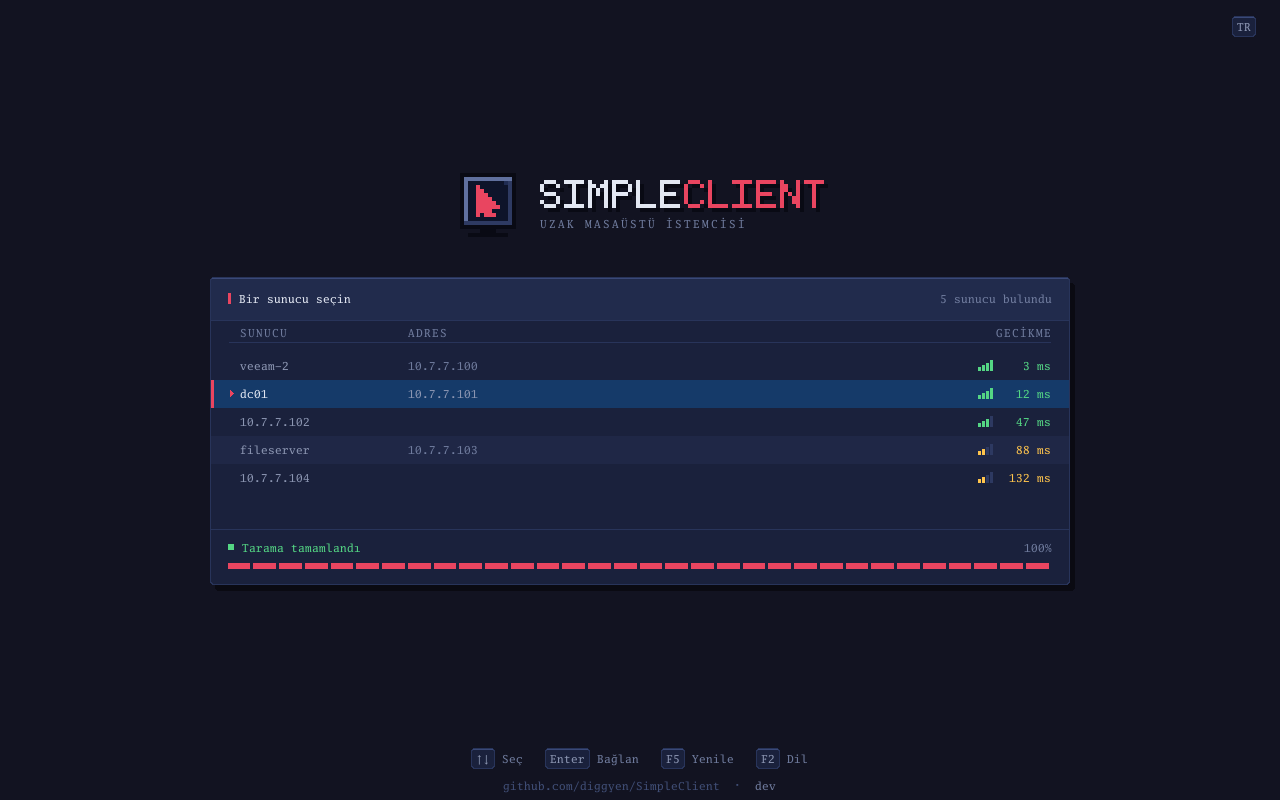
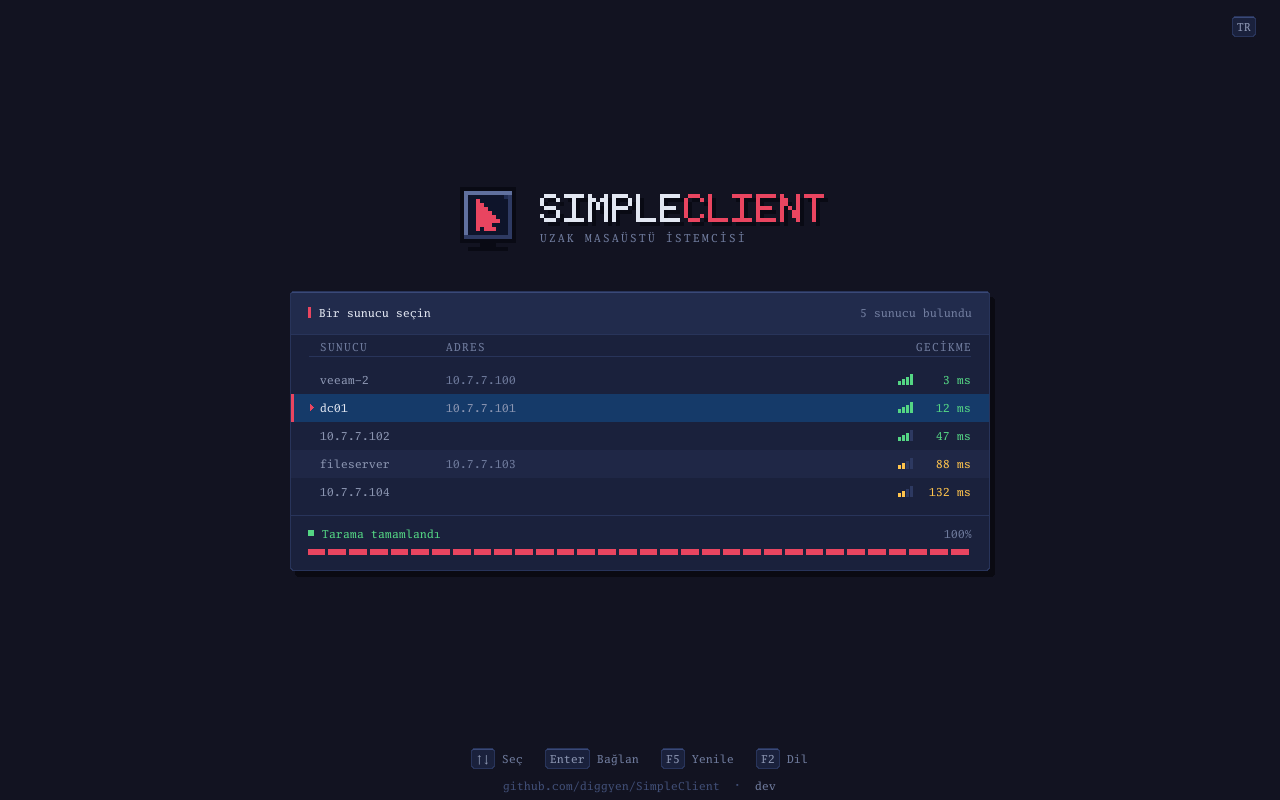
fix: size the host card to what it actually shows
The card was 860px wide with a SERVER and an ADDRESS column. On a network with
no reverse DNS — the ordinary case — nothing resolves to a name, so the name
column holds the IP and the address column is empty: a panel two thirds the
width of the screen wrapped around fifteen characters of text.

The list has two shapes and now gets two widths. With hostnames it keeps both
columns at 700px; without them the address column is dropped entirely and the
card narrows to 470px. The name column also shrank from 24 characters to 18,
which is an IPv4 address or a short hostname, and the minimum row count from six
to four, so a two-host list no longer sits in a mostly empty panel.

Layout now takes the hosts rather than a count, since whether the column is
there is a property of the hosts. Run still sizes its scrolling window from the
full-height layout and hit-tests against the one for the hosts on screen, so
TestLayoutDiscovery_RowCountIsIndependentOfWidth pins the invariant those two
rely on: width must not change how many rows fit, or a click selects a different
host from the one under the pointer.

Verified on a real boot under UEFI off a USB device, not only in the renderer.

Changed region(s): [[0.1562, 0.3438, 0.8438, 0.75], [0.3438, 0.2188, 0.6562, 0.3125], [0.3438, 0.5625, 0.375, 0.5938]]

diff --git a/internal/ui/render_discovery.go b/internal/ui/render_discovery.go
@@ -24,8 +24,14 @@ const (
 // edge: a full-width list on a 1280px screen puts the hostname and its latency
 // so far apart that they stop reading as one row.
 const (
-	cardMaxW    = 860
-	cardMinW    = 440
+	// Two widths, because the list has two shapes. With reverse DNS the rows
+	// carry a name and an address; without it — the common case on a flat
+	// office network — the name column holds the IP and the address column is
+	// empty, and a card sized for both columns is mostly whitespace around
+	// fifteen characters of text.
+	cardMaxW    = 700
+	cardNarrowW = 470
+	cardMinW    = 400
 	cardMaxH    = 620
 	cardMargin  = 48 // minimum gap between the card and the screen edge
 	cardHeader  = 44
@@ -33,7 +39,7 @@ const (
 	cardFooter  = 56
 	cardRowH    = 28
 	cardPad     = 18
-	cardMinRows = 6 // keeps the card from collapsing around one or two hosts
+	cardMinRows = 4 // keeps the card from collapsing around one or two hosts
 	scrollBarW  = 4
 	logoTop     = 44 // top of the header block
 	logoGap     = 40 // between the header block and the card
@@ -42,7 +48,7 @@ const (
 
 // Column geometry, in character cells from the left edge of the list.
 const (
-	colNameChars    = 24 // hostname column, wide enough for a FQDN-ish label
+	colNameChars    = 18 // name column: a short hostname, or an IPv4 address
 	latencyNumChars = 7  // "9999 ms" — a fixed column, so the bars stay aligned
 	meterGap        = 9  // between the signal bars and the number
 )
@@ -59,27 +65,43 @@ type discoveryLayout struct {
 	List    image.Rectangle
 	Footer  image.Rectangle
 	RowH    int
-	Rows    int // how many rows fit in List
+	Rows    int  // how many rows fit in List
+	Address bool // whether the address column is drawn, and paid for in width
 }
 
 // layoutDiscovery returns the card at its full height. Run uses it to size the
 // scrolling window, which must stay fixed even as the card grows during a scan.
 func layoutDiscovery(screen image.Rectangle) discoveryLayout {
-	return layoutDiscoveryRows(screen, 1<<30)
+	return layoutDiscoveryRows(screen, 1<<30, true)
 }
 
 // layoutDiscoveryFor sizes the card to the number of hosts on offer, so a short
 // list does not sit in a mostly empty panel. Once the list is longer than the
 // screen allows this is identical to layoutDiscovery, which is why the scroll
 // arithmetic stays consistent.
-func layoutDiscoveryFor(screen image.Rectangle, hostCount int) discoveryLayout {
-	return layoutDiscoveryRows(screen, hostCount)
+func layoutDiscoveryFor(screen image.Rectangle, hosts []domain.Host) discoveryLayout {
+	return layoutDiscoveryRows(screen, len(hosts), anyHostname(hosts))
 }
 
-func layoutDiscoveryRows(screen image.Rectangle, rows int) discoveryLayout {
+// anyHostname reports whether any host resolved to a name. If none did, the
+// address column would repeat what the name column already shows.
+func anyHostname(hosts []domain.Host) bool {
+	for _, h := range hosts {
+		if h.Hostname != "" {
+			return true
+		}
+	}
+	return false
+}
+
+func layoutDiscoveryRows(screen image.Rectangle, rows int, address bool) discoveryLayout {
 	w, h := screen.Dx(), screen.Dy()
 
-	cardW := clampInt(w-2*cardMargin, cardMinW, cardMaxW)
+	maxW := cardNarrowW
+	if address {
+		maxW = cardMaxW
+	}
+	cardW := clampInt(w-2*cardMargin, cardMinW, maxW)
 
 	// The band the wordmark and the card share, above the pinned key hints.
 	regionTop := logoTop
@@ -115,13 +137,14 @@ func layoutDiscoveryRows(screen image.Rectangle, rows int) discoveryLayout {
 		Add(image.Pt((w-cardW)/2, logo.Bounds.Max.Y+logoGap))
 
 	l := discoveryLayout{
-		Screen: screen,
-		Logo:   logo,
-		Card:   card,
-		Header: image.Rect(card.Min.X, card.Min.Y, card.Max.X, card.Min.Y+cardHeader),
-		Footer: image.Rect(card.Min.X, card.Max.Y-cardFooter, card.Max.X, card.Max.Y),
-		RowH:   cardRowH,
-		Rows:   rows,
+		Screen:  screen,
+		Logo:    logo,
+		Card:    card,
+		Header:  image.Rect(card.Min.X, card.Min.Y, card.Max.X, card.Min.Y+cardHeader),
+		Footer:  image.Rect(card.Min.X, card.Max.Y-cardFooter, card.Max.X, card.Max.Y),
+		RowH:    cardRowH,
+		Rows:    rows,
+		Address: address,
 	}
 	l.Columns = image.Rect(card.Min.X+1, l.Header.Max.Y, card.Max.X-1, l.Header.Max.Y+cardColumns)
 	l.List = image.Rect(
@@ -161,7 +184,7 @@ func (l discoveryLayout) rowAt(x, y int) int {
 
 // renderDiscovery draws the main host-discovery screen.
 func renderDiscovery(img *image.RGBA, state *UIState) {
-	l := layoutDiscoveryFor(img.Bounds(), len(state.Hosts))
+	l := layoutDiscoveryFor(img.Bounds(), state.Hosts)
 
 	FillRect(img, l.Screen, ColorBG)
 
@@ -222,8 +245,10 @@ func renderColumnHeadings(img *image.RGBA, l discoveryLayout, state *UIState) {
 	const tracking = 1
 
 	DrawTextTracked(img, l.List.Min.X+cardPad+11, y, i18n.T(i18n.ColumnServer), tracking, ColorDim)
-	DrawTextTracked(img, l.List.Min.X+cardPad+11+colNameChars*CharW, y,
-		i18n.T(i18n.ColumnAddress), tracking, ColorDim)
+	if l.Address {
+		DrawTextTracked(img, l.List.Min.X+cardPad+11+colNameChars*CharW, y,
+			i18n.T(i18n.ColumnAddress), tracking, ColorDim)
+	}
 
 	latency := i18n.T(i18n.ColumnLatency)
 	DrawTextTracked(img, l.rightEdge(state)-TrackedWidth(latency, tracking), y,
@@ -276,8 +301,9 @@ func renderHostRows(img *image.RGBA, l discoveryLayout, state *UIState, visible 
 
 		DrawText(img, nameX, textY, host.DisplayName(), nameColor)
 
-		// The IP is redundant when it is already the display name.
-		if host.Hostname != "" && ipX+TextWidth(host.IP.String(), false) < rightEdge-90 {
+		// The IP is redundant when it is already the display name, and the
+		// column is not there at all when no host has a name.
+		if l.Address && host.Hostname != "" && ipX+TextWidth(host.IP.String(), false) < rightEdge-90 {
 			DrawText(img, ipX, textY, host.IP.String(), ipColor)
 		}
 

diff --git a/internal/ui/render_test.go b/internal/ui/render_test.go
@@ -20,7 +20,7 @@ func TestRenderDiscovery_Empty(t *testing.T) {
 	Render(fb, back, state, 640, 360)
 
 	// The host list lives on a centred card, not an edge-to-edge bar.
-	l := layoutDiscoveryFor(fb.Bounds(), len(state.Hosts))
+	l := layoutDiscoveryFor(fb.Bounds(), state.Hosts)
 	// Sample the header strip between the title and the count, clear of text.
 	if got := back.RGBAAt(l.Card.Min.X+l.Card.Dx()/2, l.Card.Min.Y+4); got != ColorCardHeader {
 		t.Fatalf("card header = %v, want ColorCardHeader", got)
@@ -126,7 +126,7 @@ func TestRenderDiscovery_ThreeHosts(t *testing.T) {
 	Render(fb, back, state, 0, 0)
 
 	// The list area should have non-bg pixels (host rows rendered).
-	l := layoutDiscoveryFor(fb.Bounds(), len(state.Hosts))
+	l := layoutDiscoveryFor(fb.Bounds(), state.Hosts)
 	row := l.rowRect(0)
 	hasContent := false
 	for x := row.Min.X; x < row.Max.X; x++ {
@@ -153,7 +153,7 @@ func TestRenderDiscovery_SelectedRow(t *testing.T) {
 	renderDiscovery(back, state)
 
 	// The selected row carries the accent bar on its leading edge.
-	l := layoutDiscoveryFor(fb.Bounds(), len(state.Hosts))
+	l := layoutDiscoveryFor(fb.Bounds(), state.Hosts)
 	row := l.rowRect(0)
 	if got := back.RGBAAt(row.Min.X, row.Min.Y+row.Dy()/2); got != ColorAccent {
 		t.Fatalf("selected row leading edge = %v, want the accent bar", got)
@@ -336,7 +336,7 @@ func TestLayoutDiscovery_CardGrowsWithTheList(t *testing.T) {
 	screen := image.Rect(0, 0, 1280, 800)
 	full := layoutDiscovery(screen)
 
-	short := layoutDiscoveryFor(screen, 3)
+	short := layoutDiscoveryFor(screen, sampleHosts(3))
 	if short.Rows >= full.Rows {
 		t.Errorf("a 3-host card shows %d rows, the full card %d — it should be smaller",
 			short.Rows, full.Rows)
@@ -345,7 +345,7 @@ func TestLayoutDiscovery_CardGrowsWithTheList(t *testing.T) {
 		t.Error("a short list should produce a shorter card")
 	}
 
-	long := layoutDiscoveryFor(screen, 500)
+	long := layoutDiscoveryFor(screen, sampleHosts(500))
 	if long != full {
 		t.Error("a list longer than the screen must use the same layout as Run's")
 	}
@@ -459,6 +459,57 @@ func TestRenderDiscovery_LongVersionStaysOnScreen(t *testing.T) {
 		footer := TextWidth(gitURL+buildSep+version.Version, false)
 		if footer > w-2*padding {
 			t.Errorf("w=%d: footer line is %dpx and does not fit", w, footer)
+		}
+	}
+}
+
+// A list of bare IPs gets a narrower card: with no reverse DNS the address
+// column would repeat the name column, and paying for it leaves the card mostly
+// whitespace around fifteen characters of text.
+func TestLayoutDiscovery_NarrowsWhenThereAreNoHostnames(t *testing.T) {
+	screen := image.Rect(0, 0, 1280, 800)
+
+	named := make([]domain.Host, 3)
+	bare := make([]domain.Host, 3)
+	for i := range named {
+		ip := net.IPv4(10, 0, 0, byte(i+1))
+		named[i] = domain.Host{IP: ip, Hostname: "dc0" + string(rune('1'+i))}
+		bare[i] = domain.Host{IP: ip}
+	}
+
+	wide := layoutDiscoveryFor(screen, named)
+	narrow := layoutDiscoveryFor(screen, bare)
+
+	if !wide.Address {
+		t.Error("a list with hostnames should carry the address column")
+	}
+	if narrow.Address {
+		t.Error("a list of bare IPs should not carry the address column")
+	}
+	if narrow.Card.Dx() >= wide.Card.Dx() {
+		t.Errorf("narrow card is %dpx, wide is %dpx — it should be smaller",
+			narrow.Card.Dx(), wide.Card.Dx())
+	}
+	if left, right := narrow.Card.Min.X, screen.Max.X-narrow.Card.Max.X; left != right {
+		t.Errorf("narrow card is not centred (%d left, %d right)", left, right)
+	}
+}
+
+// Run sizes its scrolling window from layoutDiscovery, but hit-tests clicks
+// against the layout for the hosts actually on screen. If the card's width
+// could change how many rows fit, those two would disagree and a click would
+// select a different host from the one under the pointer.
+func TestLayoutDiscovery_RowCountIsIndependentOfWidth(t *testing.T) {
+	for _, s := range [][2]int{{640, 480}, {1024, 768}, {1280, 800}, {1920, 1080}} {
+		screen := image.Rect(0, 0, s[0], s[1])
+		wide := layoutDiscoveryRows(screen, 1<<30, true)
+		narrow := layoutDiscoveryRows(screen, 1<<30, false)
+
+		if wide.Rows != narrow.Rows {
+			t.Errorf("%dx%d: %d rows wide, %d narrow", s[0], s[1], wide.Rows, narrow.Rows)
+		}
+		if wide.RowH != narrow.RowH || wide.List.Min.Y != narrow.List.Min.Y {
+			t.Errorf("%dx%d: the rows do not start at the same place", s[0], s[1])
 		}
 	}
 }

diff --git a/internal/ui/screenshot_test.go b/internal/ui/screenshot_test.go
@@ -102,6 +102,19 @@ func TestScreenshots(t *testing.T) {
 
 	// The narrowest panel the kiosk is expected to boot on. Everything has to
 	// fit here before it is worth judging at 1280.
+	// No reverse DNS: the shape a flat office network produces, and the one the
+	// card is narrowed for.
+	shot("11-bare-ips", 1280, 800, func(b *image.RGBA) {
+		hosts := sampleHosts(5)
+		for i := range hosts {
+			hosts[i].Hostname = ""
+		}
+		renderDiscovery(b, &UIState{
+			Screen: ScreenDiscovery, Hosts: hosts,
+			SelectedIdx: 1, ScanDone: true, ScanProgress: 1,
+		})
+	})
+
 	shot("09-640x480", 640, 480, func(b *image.RGBA) {
 		renderDiscovery(b, &UIState{
 			Screen: ScreenDiscovery, Hosts: sampleHosts(6),

diff --git a/internal/ui/loop.go b/internal/ui/loop.go
@@ -266,7 +266,7 @@ func handleMouseClick(
 	case ScreenDiscovery:
 		// Hit-testing goes through the same layout the renderer used, so a
 		// click always lands on the row the user actually sees.
-		rowIdx := layoutDiscoveryFor(fb.Bounds(), len(state.Hosts)).rowAt(mx, my)
+		rowIdx := layoutDiscoveryFor(fb.Bounds(), state.Hosts).rowAt(mx, my)
 		if rowIdx < 0 {
 			return
 		}
